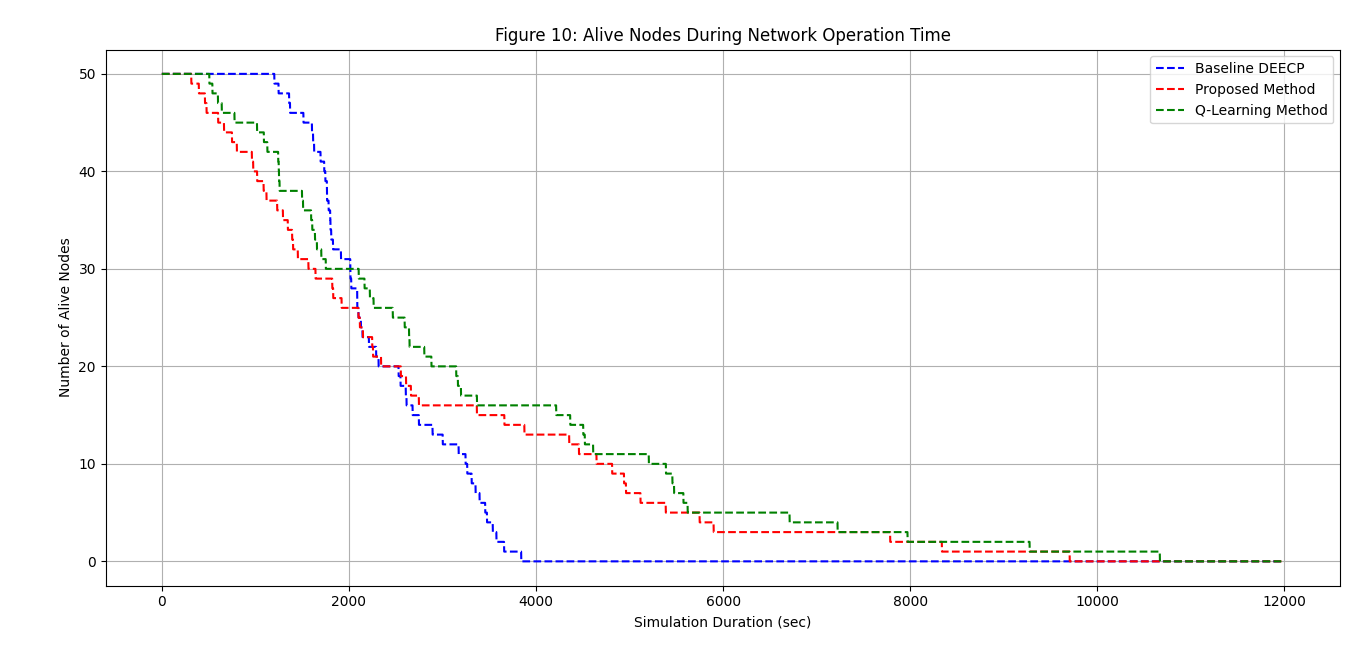
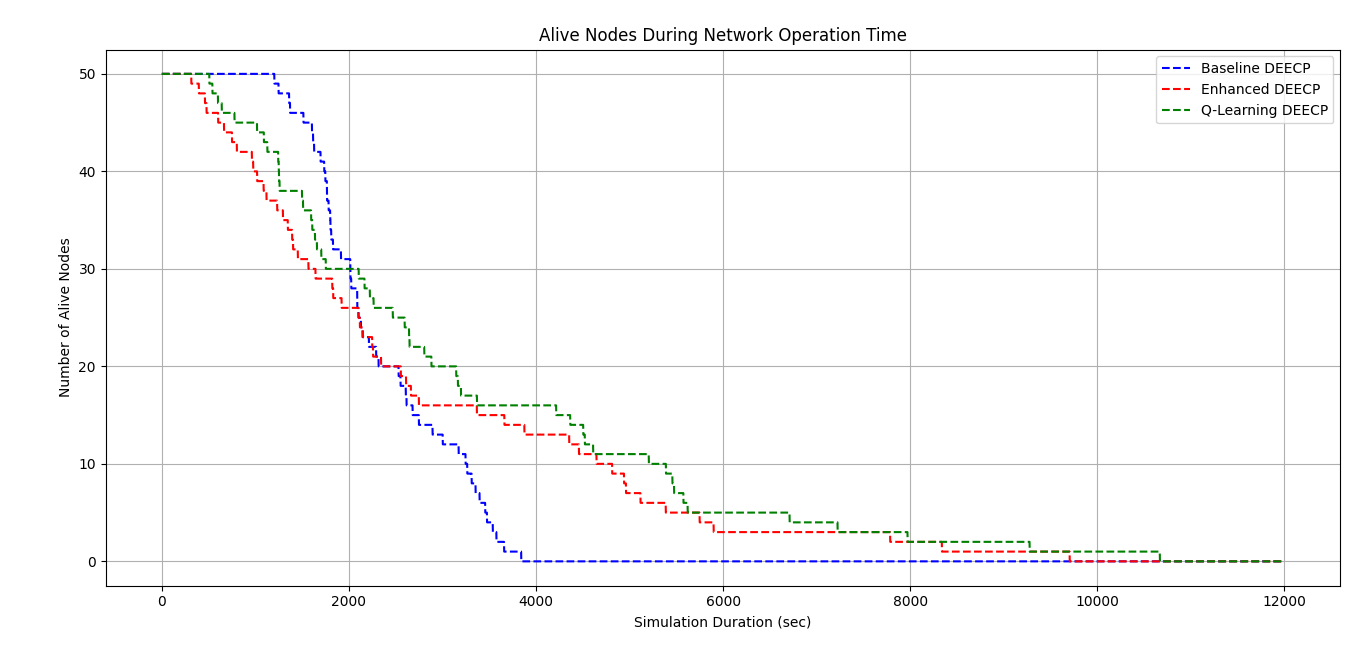
updated code

Changed region(s): [[0.8609, 0.0905, 0.9839, 0.181], [0.369, 0.0302, 0.7072, 0.0603]]

diff --git a/paper impl/[2022] Efficient_Energy_Mechanism_in_Heterogeneous_WSNs_for_Underground_Mining_Monitoring_Applications/simulate_network.py b/paper impl/[2022] Efficient_Energy_Mechanism_in_Heterogeneous_WSNs_for_Underground_Mining_Monitoring_Applications/simulate_network.py
@@ -63,7 +63,7 @@ configs = [
     (50, 0.21),
     (100, 0.05),
     (150, 0.02),
-    (200, 0.01),
+    # (200, 0.01),
 ]
 
 results = {}
@@ -71,6 +71,7 @@ results = {}
 # ------------------------------
 # Step 4: Run Simulations
 # ------------------------------
+print(f"\nSimulation Started")
 for N, p in configs:
     update_config_file(N, p)
     simulate = reload_simulation_env()
@@ -93,7 +94,7 @@ for N, p in configs:
 
     print_node_death_comparison(baseline_death_rounds, proposed_death_rounds, q_learning_death_rounds)
 
-
+print(f"\nSimulation Completed")
 # ------------------------------
 # Step 5: Plots for 50 Nodes
 # ------------------------------
@@ -103,9 +104,9 @@ if 50 in results:
     # Dead Nodes
     plt.figure(figsize=(8, 5))
     plt.plot(res["baseline"]["dead"], label="Baseline DEECP", linestyle="--", color='blue')
-    plt.plot(res["proposed"]["dead"], label="Proposed Method", linestyle="--", color='red')
-    plt.plot(res["q_learning"]["dead"], label="Q-Learning Method", linestyle="--", color='green')
-    plt.title("Figure 9: Dead Nodes During Network Operation Time")
+    plt.plot(res["proposed"]["dead"], label="Enhanced DEECP", linestyle="--", color='red')
+    plt.plot(res["q_learning"]["dead"], label="Q-Learning DEECP", linestyle="--", color='green')
+    plt.title("Dead Nodes During Network Operation Time")
     plt.xlabel("Simulation Duration (sec)")
     plt.ylabel("Number of Dead Nodes")
     plt.legend()
@@ -116,9 +117,9 @@ if 50 in results:
     # Alive Nodes
     plt.figure(figsize=(8, 5))
     plt.plot(res["baseline"]["alive"], label="Baseline DEECP", linestyle="--", color='blue')
-    plt.plot(res["proposed"]["alive"], label="Proposed Method", linestyle="--", color='red')
-    plt.plot(res["q_learning"]["alive"], label="Q-Learning Method", linestyle="--", color='green')
-    plt.title("Figure 10: Alive Nodes During Network Operation Time")
+    plt.plot(res["proposed"]["alive"], label="Enhanced DEECP", linestyle="--", color='red')
+    plt.plot(res["q_learning"]["alive"], label="Q-Learning DEECP", linestyle="--", color='green')
+    plt.title("Alive Nodes During Network Operation Time")
     plt.xlabel("Simulation Duration (sec)")
     plt.ylabel("Number of Alive Nodes")
     plt.legend()
@@ -129,9 +130,9 @@ if 50 in results:
     # Throughput
     plt.figure(figsize=(8, 5))
     plt.plot(res["baseline"]["throughput"], label='Baseline DEECP', linestyle='--', color='purple')
-    plt.plot(res["proposed"]["throughput"], label='Proposed Method', linestyle='--', color='orange')
-    plt.plot(res["q_learning"]["throughput"], label='Q-Learning Method', linestyle='--', color='teal')
-    plt.title("Figure 11: Throughput During Network Operation Time")
+    plt.plot(res["proposed"]["throughput"], label='Enhanced DEECP', linestyle='--', color='orange')
+    plt.plot(res["q_learning"]["throughput"], label='Q-Learning DEECP', linestyle='--', color='teal')
+    plt.title("Throughput During Network Operation Time")
     plt.xlabel("Simulation Duration (sec)")
     plt.ylabel("Network Throughput (bits)")
     plt.legend()
@@ -145,9 +146,9 @@ if 50 in results:
 # ------------------------------
 plt.figure(figsize=(11, 5))
 for N, _ in configs:
-    plt.plot(results[N]["baseline"]["dead"], linestyle="--", label=f"Baseline N={N}")
-    plt.plot(results[N]["proposed"]["dead"], label=f"Proposed N={N}")
-    plt.plot(results[N]["q_learning"]["dead"], linestyle="-.", label=f"Q-Learning N={N}")
+    plt.plot(results[N]["baseline"]["dead"], linestyle="--", label=f"Baseline DEECP N={N}")
+    plt.plot(results[N]["proposed"]["dead"], label=f"Enhanced DEECP N={N}")
+    plt.plot(results[N]["q_learning"]["dead"], linestyle="-.", label=f"Q-Learning DEECP N={N}")
 plt.title("Dead Nodes During Network Operation")
 plt.xlabel("Simulation Duration (sec)")
 plt.ylabel("Number of Dead Nodes")
@@ -158,9 +159,9 @@ plt.show()
 
 plt.figure(figsize=(11, 5))
 for N, _ in configs:
-    plt.plot(results[N]["baseline"]["alive"], linestyle="--", label=f"Baseline N={N}")
-    plt.plot(results[N]["proposed"]["alive"], label=f"Proposed N={N}")
-    plt.plot(results[N]["q_learning"]["alive"], linestyle="-.", label=f"Q-Learning N={N}")
+    plt.plot(results[N]["baseline"]["alive"], linestyle="--", label=f"Baseline DEECP N={N}")
+    plt.plot(results[N]["proposed"]["alive"], label=f"Enhanced DEECP N={N}")
+    plt.plot(results[N]["q_learning"]["alive"], linestyle="-.", label=f"Q-Learning DEECP N={N}")
 plt.title("Alive Nodes During Network Operation")
 plt.xlabel("Simulation Duration (sec)")
 plt.ylabel("Number of Alive Nodes")
@@ -182,9 +183,9 @@ proposed_lifetimes = [next((i for i, x in enumerate(results[N]["proposed"]["dead
 q_learning_lifetimes = [next((i for i, x in enumerate(results[N]["q_learning"]["dead"]) if x == N), -1) for N, _ in configs]
 
 plt.figure(figsize=(10, 6))
-plt.bar(x - width, baseline_lifetimes, width, label='DEECP Baseline', color='steelblue')
-plt.bar(x, proposed_lifetimes, width, label='Proposed Method', color='orange')
-plt.bar(x + width, q_learning_lifetimes, width, label='Q-Learning Method', color='green')
+plt.bar(x - width, baseline_lifetimes, width, label='Baseline DEECP', color='steelblue')
+plt.bar(x, proposed_lifetimes, width, label='Enhanced DEECP', color='orange')
+plt.bar(x + width, q_learning_lifetimes, width, label='Q-Learning DEECP', color='green')
 
 plt.xlabel("Number of Nodes")
 plt.ylabel("Last Node Dead Round")

diff --git a/paper impl/[2022] Efficient_Energy_Mechanism_in_Heterogeneous_WSNs_for_Underground_Mining_Monitoring_Applications/utils.py b/paper impl/[2022] Efficient_Energy_Mechanism_in_Heterogeneous_WSNs_for_Underground_Mining_Monitoring_Applications/utils.py
@@ -20,12 +20,12 @@ def print_node_death_comparison(baseline_deaths, proposed_deaths, q_learning_dea
     p = extract_milestones(proposed_deaths)
     q = extract_milestones(q_learning_deaths)
 
-    print("────────────────────────────────────────────────────────────")
-    print(f"{'Milestone':<20} {'Baseline':>10} {'Proposed':>10} {'Q-Learning':>12}")
-    print("────────────────────────────────────────────────────────────")
-    print(f"{'1st Node Death':<20} {b['1st']:>10} {p['1st']:>10} {q['1st']:>12}")
-    print(f"{'50% Nodes Dead':<20} {b['50%']:>10} {p['50%']:>10} {q['50%']:>12}")
-    print(f"{'90% Nodes Dead':<20} {b['90%']:>10} {p['90%']:>10} {q['90%']:>12}")
-    print(f"{'Last Node Death':<20} {b['Last']:>10} {p['Last']:>10} {q['Last']:>12}")
-    print("────────────────────────────────────────────────────────────")
+    print("────────────────────────────────────────────────────────────────────────────────────────────────")
+    print(f"{'Milestone':<30} {'Baseline DEECP':>20} {'Enhanced DEECP':>20} {'Q-Learning DEECP':>20}")
+    print("────────────────────────────────────────────────────────────────────────────────────────────────")
+    print(f"{'1st Node Death':<30} {b['1st']:>20} {p['1st']:>20} {q['1st']:>20}")
+    print(f"{'50% Nodes Dead':<30} {b['50%']:>20} {p['50%']:>20} {q['50%']:>20}")
+    print(f"{'90% Nodes Dead':<30} {b['90%']:>20} {p['90%']:>20} {q['90%']:>20}")
+    print(f"{'Last Node Death':<30} {b['Last']:>20} {p['Last']:>20} {q['Last']:>20}")
+    print("────────────────────────────────────────────────────────────────────────────────────────────────")
 

diff --git a/paper impl/[2022] Efficient_Energy_Mechanism_in_Heterogeneous_WSNs_for_Underground_Mining_Monitoring_Applications/config.py b/paper impl/[2022] Efficient_Energy_Mechanism_in_Heterogeneous_WSNs_for_Underground_Mining_Monitoring_Applications/config.py
@@ -1,6 +1,6 @@
 # Network Area and Setup
 AREA = 200
-NUM_NODES = 200
+NUM_NODES = 150
 ROUNDS = 12000
 SINK_POS = (AREA / 2, AREA / 2)  # Sink at center
 
@@ -19,7 +19,7 @@ Emp = 0.0013e-12   # Multipath model energy (d^4) for long range
 packet_size = 3000  # bits per message
 
 # Optimal probability of CH election (used in DEECP + Proposed) → Eq. (5), (11)
-p_opt = 0.01
+p_opt = 0.02
 
 # Notes:
 # - Total energy (Eq. 2 / Eq. 4) calculated in main simulation.
